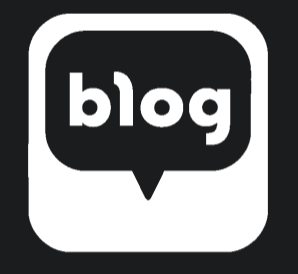
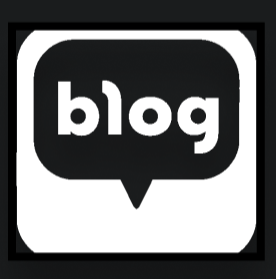
NavBar, BottomBar - responsive

Changed region(s): [[0.029, 0.0292, 0.9565, 0.9343], [0.2029, 0.1752, 0.8696, 0.7007]]

diff --git a/src/components/BottomBar.js b/src/components/BottomBar.js
@@ -2,33 +2,40 @@ import Container from 'react-bootstrap/Container';
 import Nav from 'react-bootstrap/Nav';
 import Navbar from 'react-bootstrap/Navbar';
 import styles from './BottomBar.module.css';
-import { FaInstagram } from "react-icons/fa";
-import { FaGithub } from "react-icons/fa";
-import { FaRegEnvelope } from "react-icons/fa";
+import insta from '../images/insta-icon.png';
+import github from '../images/github-icon.png';
+import mail from '../images/mail-icon.png';
+import blog from '../images/blog-icon.png';
+import feedback from '../images/feedback-icon.png';
+import { FaInfoCircle } from "react-icons/fa";
+
 
 
 function BottomBar() {
   return (
     <Navbar collapseOnSelect expand="lg" variant="dark" className={styles.navStyle}>
-      <Container className='px-0'>
-        <Navbar.Toggle aria-controls="responsive-navbar-nav" />
+      <Container className='px-0 justify-content-center'>
+        {/* menu icon */}
+        <Navbar.Toggle aria-controls="responsive-navbar-nav" className='border-0 m-2'>
+          <FaInfoCircle className={styles.menuIcon}/>
+        </Navbar.Toggle>
         <Navbar.Collapse id="responsive-navbar-nav">
           {/* icons */}
           <Nav className="me-auto align-items-center">
             <Nav.Link className={styles.navText} href='https://www.instagram.com/ecops_ewha/'>
-              <FaInstagram/>
+              <img src={insta} className={styles.iconImg} alt='instagram'/>
             </Nav.Link>
             <Nav.Link className={styles.navText} href='https://github.com/E-COPS'>
-              <FaGithub/>
-            </Nav.Link>
-            <Nav.Link className={styles.navText} href='https://blog.naver.com/ecopsecops'>
-              <FaRegEnvelope/>
-            </Nav.Link>
-            <Nav.Link className={styles.navText} href='https://forms.gle/57wwA6rc2FGFsjK79'>
-              <img src='../images/blog-icon.png' className={styles.iconImg}/>
+              <img src={github} className={styles.iconImg} alt='github'/>
             </Nav.Link>
             <Nav.Link className={styles.navText} href='https://mail.google.com/mail/?view=cm&amp;fs=1&amp;to=ewha.ecops@gmail.com'>
-              <img src='../images/feedback-icon.png' className={styles.iconImg}/>
+              <img src={mail} className={styles.iconImg} alt='gmail'/>
+            </Nav.Link>
+            <Nav.Link className={styles.navText} href='https://blog.naver.com/ecopsecops'>
+              <img src={blog} className={styles.iconImg} alt='naver blog'/>
+            </Nav.Link>
+            <Nav.Link className={styles.navText} href='https://forms.gle/57wwA6rc2FGFsjK79'>
+              <img src={feedback} className={styles.iconImg} alt='feedback'/>
             </Nav.Link>
           </Nav>
           {/* text link */}

diff --git a/src/components/NavBar.js b/src/components/NavBar.js
@@ -1,15 +1,22 @@
 import Container from 'react-bootstrap/Container';
 import Nav from 'react-bootstrap/Nav';
 import Navbar from 'react-bootstrap/Navbar';
+import logo from '../images/logo-img.png';
+import { FiMenu } from "react-icons/fi";
 import styles from './NavBar.module.css';
 
 function NavBar() {
   return (
     <Navbar collapseOnSelect expand="lg" variant="dark" className={styles.navStyle}>
-      <Container className='px-0'>
+      <Container className='px-0 align-items-center'>
         {/* logo */}
-        <Navbar.Brand href="/">E-COPS</Navbar.Brand>
-        <Navbar.Toggle aria-controls="responsive-navbar-nav" />
+        <Navbar.Brand href="/">
+          <img src={logo} className={styles.logoImg} alt='e-cops'/>
+        </Navbar.Brand>
+        {/* menu icon */}
+        <Navbar.Toggle aria-controls="responsive-navbar-nav" className='border-0 mx-2'>
+          <FiMenu className={styles.menuIcon}/>
+        </Navbar.Toggle>
         {/* menu */}
         <Navbar.Collapse id="responsive-navbar-nav" className='justify-content-end'>
         <Nav className="ml-auto align-items-center">

diff --git a/src/components/NavBar.module.css b/src/components/NavBar.module.css
@@ -6,7 +6,7 @@
 /* 큰 화면 */
 @media screen and (min-width:1000px) {
   .navStyle {
-    height: 70px;
+    height: 80px;
   }
 }
 
@@ -14,4 +14,23 @@
   color: white;
   font-size: 15px;
   margin: 0px 10px;
+}
+
+.logoImg {
+  width: 190px;
+  height: 50px;
+  margin-left: 10px;
+}
+
+/* 작은 화면 */
+@media screen and (max-width:500px) {
+  .logoImg {
+    width: 150px;
+    height: 40px;
+  }
+}
+
+.menuIcon {
+  font-size: 25px;
+  color: white;
 }

diff --git a/src/components/BottomBar.module.css b/src/components/BottomBar.module.css
@@ -1,8 +1,13 @@
 .navStyle {
-  /* height media query!! */
-  height: 100px;
   margin-top: 20px;
   background-color: #1A1C1D;
+}
+
+/* 큰 화면 */
+@media screen and (min-width:1000px) {
+  .navStyle {
+    height: 100px;
+  }
 }
 
 .navText {
@@ -11,6 +16,11 @@
 }
 
 .iconImg {
-  width: 100px;
-  height: 100px;
+  width: 25px;
+  height: 25px;
+  margin: 0px 2px;
+}
+
+.menuIcon {
+  font-size: 30px;
 }
